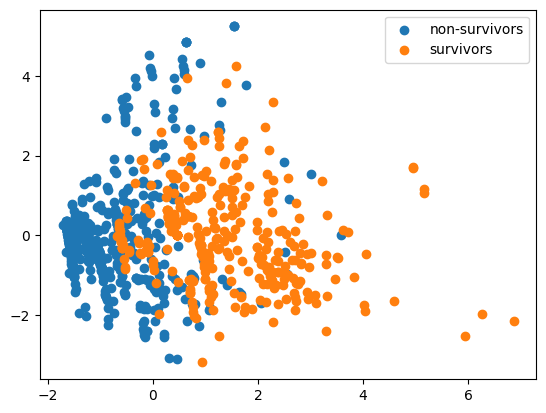
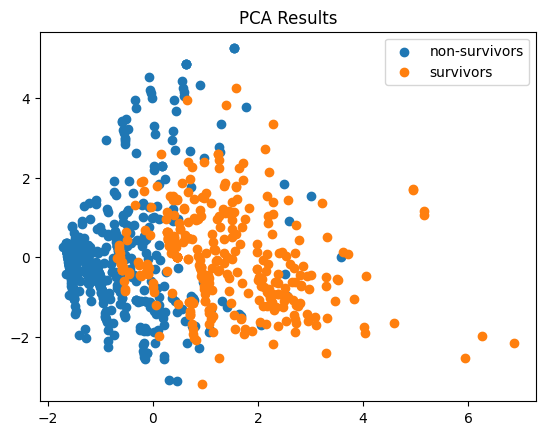
Adding link to t-SNE and PCA notebook

diff --git a/_posts/2026-05-17-palimpai-1.md b/_posts/2026-05-17-palimpai-1.md
@@ -8,7 +8,7 @@ categories: research palimpai
 # Week 1 - First Steps
 
 ## Overview
-I spent most of the week 1 preparing the git repository of the project, finding articles online and speaking to my teacher and friends doing similar work. To start my studies, I dove into t-SNE, a suggestion from a friend, which might be useful later in development.
+I spent most of week 1 preparing the git repository for the project, finding articles online and speaking to my professor and peers doing similar work. To start my studies, I dove into t-SNE, a suggestion from a friend, which might be useful later in development.
 
 ## Studies
 
@@ -20,13 +20,13 @@ As previously stated, a friend working on a similar project suggested this topic
 
 PCA (Principal Component Analysis) is also a technique for dimensionality reduction. In constrast with t-SNE, which is non-deterministic and works well with non-linear data, PCA is deterministic and works best when the original dimensions of the inputs have linear relationships.
 
-While both t-SNE and PCA have similar purposes, I consider t-SNE to be the best out of the two for the purposes for this project. Despite t-SNE slower execution, it'll most likely perform better than PCA because it produces more separated clusters. PCA is designed to preserve global structures while t-SNE is designed to preserve local groups,which is extremely useful when our goal is to find pixel patches that might contain hidden text.
+While both t-SNE and PCA have similar purposes, I consider t-SNE to be the best out of the two for the purposes for this project. Despite t-SNE slower execution time, it'll most likely perform better than PCA because it produces more separated clusters. PCA is designed to preserve global structures while t-SNE is designed to preserve local groups, which is extremely useful when our goal is to find pixel patches that might contain hidden text.
 
 ### Articles
 
 Unfortunately, I had very little spare time this week, so I could only manage to properly read a single article. I am working towards having more time to dedicate to the project soon.
 
-The article I managed to read this week was the [ImageNet](https://ieeexplore.ieee.org/document/5206848). I chose to read it because many other articles that are more related to this project use the ImageNet dataset.
+The article I managed to read this week was [ImageNet](https://ieeexplore.ieee.org/document/5206848). I chose to read it because many other articles that are more related to this project use the ImageNet dataset.
 
 Additionally, I am pleased to say I found an [article on a very similar topic](https://ieeexplore.ieee.org/document/10113438) to this project, but that processes hyperspectral images instead. I hope it'll help guiding my steps towards my own processing pipeline.
 
@@ -39,9 +39,9 @@ As expected, t-SNE had a much better result, managing to keep both groups relati
 
 ![PCA Results]({{ site.baseurl }}/assets/week1-PCA-results.png)
 
-Observe that t-SNE managed to group most of the survivors in a compressed section.
+Observe that t-SNE managed to group most of the survivors in a compressed section, while PCA spread survivors and non-survivors across all major groupings.
 
-*The complete test file can be found at: [t-SNE & PCA](...)*
+*The complete test file can be found at: [t-SNE & PCA](https://github.com/Davi1544/palimpai/blob/main/notebooks/tSNE%26PCA.ipynb)*
 
 ## Next Steps
 In the next weeks, I'll focus on reading the other suggested articles and studying the architecture of the [MISHA](https://sites.google.com/usp.br/mishabr/) project, because the dataset comes from the leaders of the project.